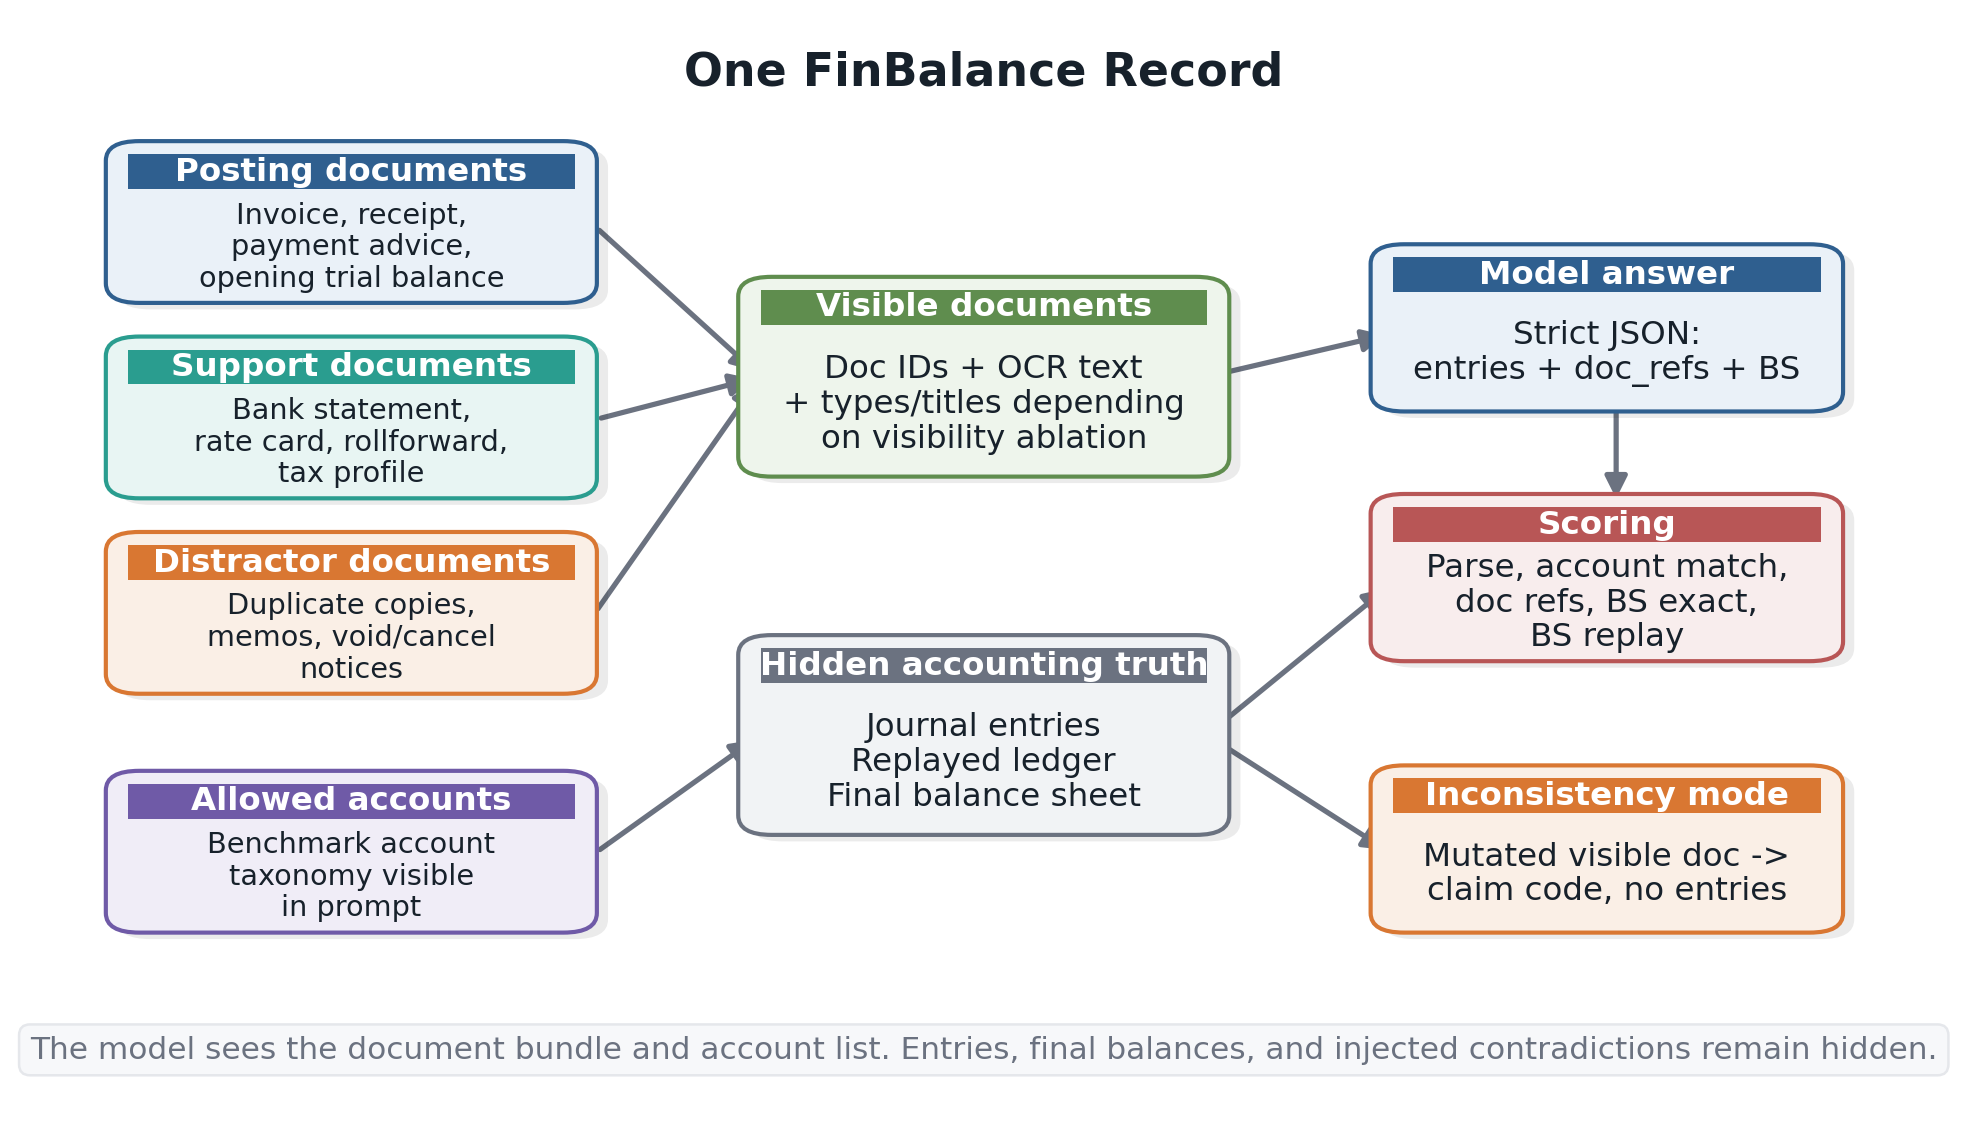
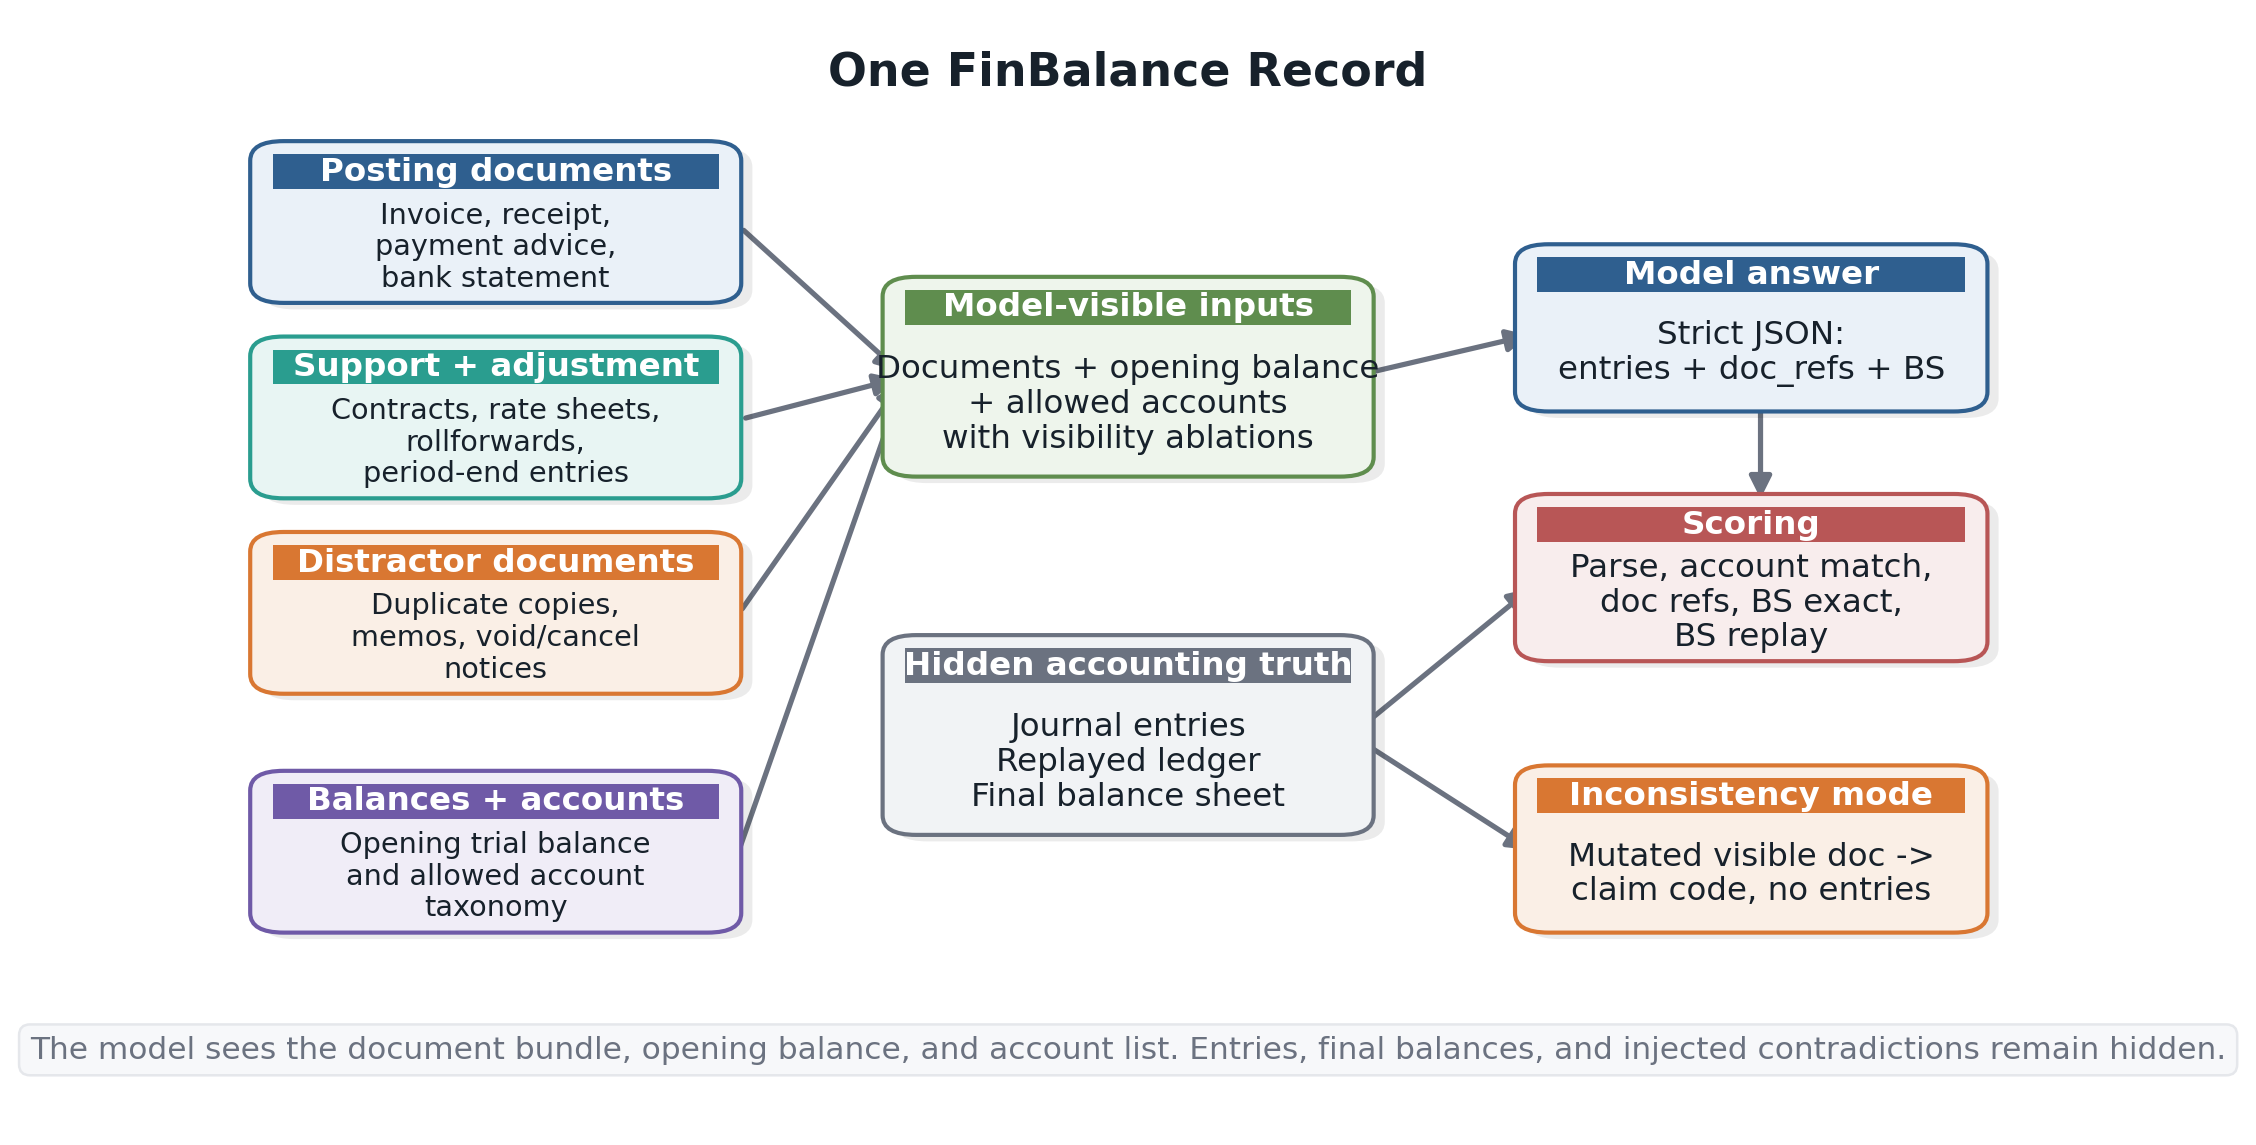
Reference all final paper tables and figures

diff --git a/finbalance/figures/diagrams.py b/finbalance/figures/diagrams.py
@@ -31,12 +31,12 @@ def diagram_dataset_packet(output_dir: Path) -> list[Path]:
     ax.axis("off")
 
     _title(ax, 0.5, 0.96, "One FinBalance Record")
-    _box(ax, 0.04, 0.76, 0.24, 0.125, "Posting documents", "Invoice, receipt,\npayment advice,\nopening trial balance", BLUE, body_size=6.9)
-    _box(ax, 0.04, 0.58, 0.24, 0.125, "Support documents", "Bank statement,\nrate card, rollforward,\ntax profile", TEAL, body_size=6.9)
+    _box(ax, 0.04, 0.76, 0.24, 0.125, "Posting documents", "Invoice, receipt,\npayment advice,\nbank statement", BLUE, body_size=6.9)
+    _box(ax, 0.04, 0.58, 0.24, 0.125, "Support + adjustment", "Contracts, rate sheets,\nrollforwards,\nperiod-end entries", TEAL, body_size=6.9)
     _box(ax, 0.04, 0.40, 0.24, 0.125, "Distractor documents", "Duplicate copies,\nmemos, void/cancel\nnotices", ORANGE, body_size=6.9)
-    _box(ax, 0.04, 0.18, 0.24, 0.125, "Allowed accounts", "Benchmark account\ntaxonomy visible\nin prompt", PURPLE, body_size=6.9)
+    _box(ax, 0.04, 0.18, 0.24, 0.125, "Balances + accounts", "Opening trial balance\nand allowed account\ntaxonomy", PURPLE, body_size=6.9)
 
-    _box(ax, 0.38, 0.60, 0.24, 0.16, "Visible documents", "Doc IDs + OCR text\n+ types/titles depending\non visibility ablation", GREEN)
+    _box(ax, 0.38, 0.60, 0.24, 0.16, "Model-visible inputs", "Documents + opening balance\n+ allowed accounts\nwith visibility ablations", GREEN)
     _box(ax, 0.38, 0.27, 0.24, 0.16, "Hidden accounting truth", "Journal entries\nReplayed ledger\nFinal balance sheet", GRAY)
 
     _box(ax, 0.72, 0.66, 0.23, 0.13, "Model answer", "Strict JSON:\nentries + doc_refs + BS", BLUE)
@@ -44,7 +44,7 @@ def diagram_dataset_packet(output_dir: Path) -> list[Path]:
     _box(ax, 0.72, 0.18, 0.23, 0.13, "Inconsistency mode", "Mutated visible doc ->\nclaim code, no entries", ORANGE)
 
     for y in (0.82, 0.64, 0.46, 0.24):
-        _arrow(ax, (0.29, y), (0.38, 0.68 if y > 0.35 else 0.35))
+        _arrow(ax, (0.29, y), (0.38, 0.68))
     _arrow(ax, (0.62, 0.68), (0.72, 0.72))
     _arrow(ax, (0.84, 0.66), (0.84, 0.56))
     _arrow(ax, (0.62, 0.35), (0.72, 0.49))
@@ -54,7 +54,7 @@ def diagram_dataset_packet(output_dir: Path) -> list[Path]:
         ax,
         0.5,
         0.06,
-        "The model sees the document bundle and account list. Entries, final balances, and injected contradictions remain hidden.",
+        "The model sees the document bundle, opening balance, and account list. Entries, final balances, and injected contradictions remain hidden.",
     )
     return save_figure(fig, output_dir, "diag_dataset_packet")
 
@@ -74,9 +74,9 @@ def diagram_generation_inference(output_dir: Path) -> list[Path]:
     _box(ax, 0.02, 0.30, 0.34, 0.13, "Scenario builders", "documents + postings + bank rows", ORANGE, body_size=7.1, header_h=0.048)
     _box(ax, 0.02, 0.09, 0.34, 0.13, "Ledger replay", "hidden entries + final balance sheet", GREEN, body_size=7.1, header_h=0.048)
 
-    _box(ax, 0.395, 0.39, 0.21, 0.19, "Released record", "visible docs\nOCR text\naccount list", GRAY, body_size=6.9, header_h=0.048)
+    _box(ax, 0.395, 0.39, 0.21, 0.19, "Released record", "visible docs + OCR\nopening balance\naccount list", GRAY, body_size=6.9, header_h=0.048)
 
-    _box(ax, 0.64, 0.66, 0.34, 0.14, "Model evidence", "posting + support + distractors", BLUE, body_size=7.1, header_h=0.048)
+    _box(ax, 0.64, 0.66, 0.34, 0.14, "Model evidence", "posting + support + adjustment\n+ distractors + opening balance", BLUE, body_size=6.7, header_h=0.048)
     _box(ax, 0.64, 0.40, 0.34, 0.14, "Inverse task", "entries + doc refs + balances", RED, body_size=7.1, header_h=0.048)
     _box(ax, 0.64, 0.14, 0.34, 0.14, "Scoring", "parse + match + ledger replay", PURPLE, body_size=7.1, header_h=0.048)
 

diff --git a/paper/sections/03_benchmark_design.tex b/paper/sections/03_benchmark_design.tex
@@ -9,7 +9,7 @@
 \end{figure*}
 
 \paragraph{Task.}
-A \benchmark{} record is a source-document bundle containing templated OCR text for one fiscal period of a synthetic business. Each bundle contains \emph{posting} documents (invoices, bills, statements, payment notices, and vouchers), \emph{support} documents (contracts, schedules, rate sheets, and certificates), \emph{adjustment} documents (period-end accruals, rollforwards, and reclassifications), an \emph{opening trial balance}, and neutralised but visually plausible \emph{distractor} documents. Given the bundle, opening trial balance, and allowed account list, the model returns JSON containing journal entries, a final balance sheet, and an inconsistency assessment. The journal entries comprise balanced debit and credit postings with an account, amount, date, and list of supporting-document references (\texttt{doc\_refs}). The balance sheet is structured by section, while the inconsistency assessment contains a flag, code, and justification.
+A \benchmark{} record is a source-document bundle containing templated OCR text for one fiscal period of a synthetic business. \figref{fig:dataset-packet} summarizes the model-visible inputs and hidden scoring labels. Each bundle contains \emph{posting} documents (invoices, bills, statements, payment notices, and vouchers), \emph{support} documents (contracts, schedules, rate sheets, and certificates), \emph{adjustment} documents (period-end accruals, rollforwards, and reclassifications), an \emph{opening trial balance}, and neutralised but visually plausible \emph{distractor} documents. Given the bundle, opening trial balance, and allowed account list, the model returns JSON containing journal entries, a final balance sheet, and an inconsistency assessment. The journal entries comprise balanced debit and credit postings with an account, amount, date, and list of supporting-document references (\texttt{doc\_refs}). The balance sheet is structured by section, while the inconsistency assessment contains a flag, code, and justification.
 
 \paragraph{Deterministic ledger ground truth.}
 \benchmark{} fixes the chart of accounts, accounting policies, tax assumptions, and transaction generator, making its labels deterministic. The benchmark scores the canonical treatment defined by these visible policies. The human-authored specification defines the business scenarios, document schemas, tax and FX rules, lease, revenue, and deferred-tax treatments, supporting-document dependencies, distractors, and inconsistency perturbations. The generator selects scenarios, builds subledgers, renders PDF-style documents and OCR text, validates standard records, and replays the ledger to produce the journal entries and final balance sheet. \appfigref{fig:generation-inference} diagrams this generation and scoring workflow. \appfigrange{fig:dataset-samples}{fig:dataset-fx-clean} shows complete sample records. Every label is checked against double-entry invariants. No record is hand-labeled after generation.

diff --git a/paper/sections/appendix.tex b/paper/sections/appendix.tex
@@ -289,6 +289,8 @@ Expected code & Meaning & Detected \\
 
 The levels are cumulative by construction: each level retains the sources of complexity below it and adds document volume, dependencies, jurisdictions, temporal lookback, or advanced concepts. The certified-accountant review judged $139/143$ compact-split assignments calibrated as written (three ``too easy,'' one ``too hard''). The independently double-reviewed overlap showed $96\%$ agreement on difficulty calibration. These judgments support practitioner-perceived ordering for the sampled benchmark records and cover the benchmark's authored complexity factors.
 
+\figref{fig:dataset-composition} summarizes the released core split across industries, difficulty levels, period types, and document roles.
+
 \begin{figure*}[t]
 \centering
 \includegraphics[width=0.92\textwidth]{figures/fig_dataset_composition.pdf}
@@ -458,7 +460,7 @@ Relative to matched non-reasoning configurations, switching from DeepSeek Chat t
 \subsection{Text versus native tool protocols}
 \label{appx:native-tools}
 
-In the prompt-described protocol, the prompt described each tool and required a JSON tool request. Gemini and the two additional prompt-described runs made zero calls over $572$ model-record evaluations. We then exposed the same calculator, document search, and ledger functions through each provider's native function-calling interface with an eight-call budget.
+In the prompt-described protocol, the prompt described each tool and required a JSON tool request. Gemini and the two additional prompt-described runs made zero calls over $572$ model-record evaluations. We then exposed the same calculator, document search, and ledger functions through each provider's native function-calling interface with an eight-call budget. \tabref{tab:native-tools} reports the resulting invocation rates, parsing rates, and accuracies.
 
 \begin{table*}[t]
 \centering
@@ -589,6 +591,8 @@ Dataset generation uses seed 42. Headline LLM evaluations use temperature 0.0 wi
 
 \paragraph{Sampling.}
 The main evaluation split, stored under \texttt{data/main/}, uses four standard records per (industry, period type, difficulty level) cell and ten forced-inconsistency records per code, drawn from a stratified deterministic sampler. The compact ablation split, stored under \texttt{data/coverage/}, contains one record per cell plus one forced-inconsistency record per code.
+
+\tabref{tab:api-settings} records the requested and returned model identifiers, providers, and headline decoding settings.
 
 \begin{table*}[t]
 \centering

diff --git a/paper/sections/05_results.tex b/paper/sections/05_results.tex
@@ -18,7 +18,7 @@ To test whether the gap reflects aggregation errors beyond entry errors, we appl
 
 Ledger feedback also reduces inconsistency-code accuracy. On the compact ablation split (\figref{fig:verifier-effects}, right), Gemini~3 Flash loses $13.0$\,pp (95\% CI $[-30.4,+4.3]$, not significant), whereas Qwen~3 235B loses $17.4$\,pp (95\% CI $[-34.8,-4.3]$) and Claude Haiku~4.5 loses $52.2$\,pp (95\% CI $[-73.9,-30.4]$). Ledger feedback may focus revisions on reconciling the bundle instead of reconsidering its consistency. A targeted causal test is needed to distinguish this mechanism.
 
-Tool use depends strongly on the interface. Under the prompt-described protocol, models were instructed to request tools by emitting JSON, but none produced an executable call across $572$ compact-split model-record evaluations. When the same tools were exposed through provider-native function calling, models invoked them on $141/143$ Gemini~3 Flash, $134/143$ DeepSeek Chat, $56/143$ GPT-5, and $140/143$ Claude Haiku~4.5 records. Native \bsexact{} is $52.5\%$, $45.8\%$, $52.5\%$, and $23.3\%$, respectively, but strict end-to-end accuracy remains only $3.3$--$5.8\%$. Native tools recover much of the aggregation component when invoked, but strict grounding remains low (\appref{appx:native-tools}).
+Tool use depends strongly on the interface. Under the prompt-described protocol, models were instructed to request tools by emitting JSON, but none produced an executable call across $572$ compact-split model-record evaluations. When the same tools were exposed through provider-native function calling, models invoked them on $141/143$ Gemini~3 Flash, $134/143$ DeepSeek Chat, $56/143$ GPT-5, and $140/143$ Claude Haiku~4.5 records. Native \bsexact{} is $52.5\%$, $45.8\%$, $52.5\%$, and $23.3\%$, respectively, but strict end-to-end accuracy remains only $3.3$--$5.8\%$. Native tools recover much of the aggregation component when invoked, but strict grounding remains low (\apptabref{tab:native-tools}).
 
 \begin{figure*}[t]
 \centering
